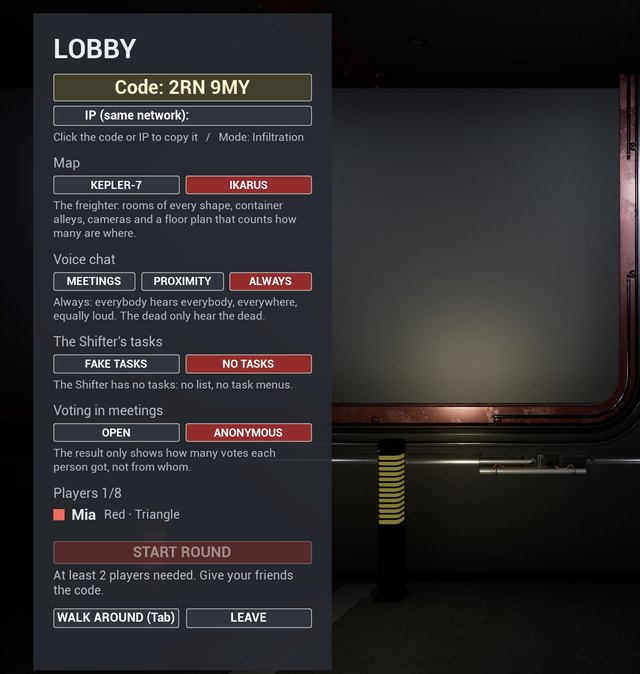
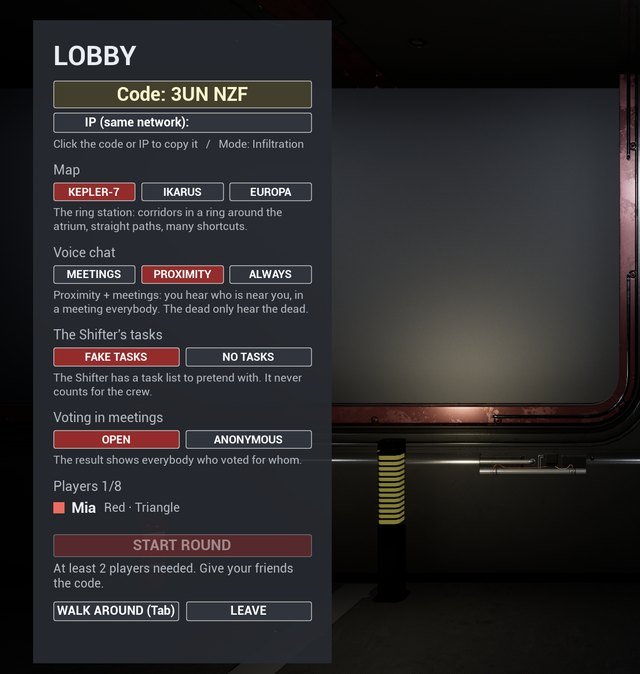
Website for v0.13.9: map Europa, ventilation shafts, three maps
- Maps: "Three maps", Europa as a screen of its own laid out like the Ikarus group (drill hall, cryo lab, ice gallery)
- New section on the shafts after the roles: an open floor hatch and the Shifter's look out of a hatch at floor level
- Meta description, hero text, nav menu and the lobby picture (now with three maps) brought up to date
- Ikarus bio lab picture re-rendered with the new furniture; the Kepler-7 corridor pictures look the same in v0.13.9
- Tools/WebsiteShots: Europa and vent tours (-HCTourMap=Europa, -HCVentOpen, -HCLanguage=en), a host-only
  lobby run, and make_images.py can write single pictures or groups

Pictures rendered from the packaged v0.13.9 game at 2560x1440.

Changed region(s): [[0.0312, 0.0, 0.5312, 0.9347], [0.0312, 0.9659, 0.375, 0.997], [0.4375, 0.9659, 0.5312, 0.997]]

diff --git a/Website/index.html b/Website/index.html
@@ -4,7 +4,7 @@
 <meta charset="utf-8">
 <meta name="viewport" content="width=device-width, initial-scale=1, viewport-fit=cover">
 <title>How Could It Be You: a social deduction horror game for 4 to 8 players</title>
-<meta name="description" content="Four to eight players on the station Kepler-7 or the freighter Ikarus, and one of them is the Shifter. Free for Windows and Linux, with online play through Epic Online Services.">
+<meta name="description" content="Four to eight players on the station Kepler-7, the freighter Ikarus or the drill station Europa, and one of them is the Shifter. Free for Windows and Linux, with online play through Epic Online Services.">
 <meta property="og:type" content="website">
 <meta property="og:title" content="How Could It Be You: a social deduction horror game">
 <meta property="og:description" content="Four to eight players on a research station. One of them wears a crewmate's face.">
@@ -53,11 +53,15 @@
 <!-- page CSS: only inside visuals, one --p-h per card group -->
 <style>
   .nav__logo img { width: 28px; height: 28px; border-radius: 7px; flex: none; }
-  #roles .panel { --p-h: auto; aspect-ratio: 16 / 9; min-height: 0; }
-  @media (max-width: 639px) { #roles .panel { aspect-ratio: 2 / 1; } }
+  :is(#roles, #vents) .panel { --p-h: auto; aspect-ratio: 16 / 9; min-height: 0; }
+  @media (max-width: 639px) { :is(#roles, #vents) .panel { aspect-ratio: 2 / 1; } }
+  /* a phone keeps the shafts on one screen: the second card tells, the first one shows */
+  @media (max-width: 639px) { #vents .card:nth-child(2) > .panel { display: none; } }
+  /* a phone gives Europa's three pictures two screens, as the maps section has */
+  @media (max-width: 639px) { #europa { --hm: 2; } }
   #maps .wide { --ratio: 41.875%; }
-  #maps .trio .frame { --ratio: 75%; }
-  @media (min-width: 640px) and (max-width: 1023px) { #maps .trio > .frame { grid-column: auto / span 4; } }
+  :is(#maps, #europa) .trio .frame { --ratio: 75%; }
+  @media (min-width: 640px) and (max-width: 1023px) { :is(#maps, #europa) .trio > .frame { grid-column: auto / span 4; } }
   #online .panel { --p-h: auto; aspect-ratio: 20 / 21; min-height: 0; }
   #online .shot-link > img { object-position: 0 0; }
   /* a screenshot that opens large: the link fills its panel or frame, the picture fills the link */
@@ -105,7 +109,8 @@
              site.css/site.js, asked for by the author: the hero lamp sputters on once, the trailer's play disc,
              screenshots open large out of their thumbnail, picture groups arrive once in view, the live
              release list fades in over the written one
-     pictures: rendered from the packaged game v0.13.2 at 2560x1440 (-HCTour and a bot round, English UI) -->
+     pictures: rendered from the packaged game v0.13.2 at 2560x1440 (-HCTour and a bot round, English UI); Europa,
+     the shafts, the Ikarus bio lab and the lobby from v0.13.9 (-HCTourMap=Europa, -HCVentOpen) -->
 
 <header class="nav nav--centre">
   <div class="wrap nav__bar">
@@ -122,10 +127,12 @@
               <p class="t-label">Maps</p>
               <a href="#maps">Kepler-7<span>Research station in orbit</span></a>
               <a href="#ikarus">Ikarus<span>Freighter with cameras</span></a>
+              <a href="#europa">Europa<span>Drill station under the ice</span></a>
             </div>
             <div class="menu-col span-3">
               <p class="t-label">A round</p>
               <a href="#roles">Roles<span>Crew against the Shifter</span></a>
+              <a href="#vents">Shafts<span>The Shifter's way under the floor</span></a>
               <a href="#online">Lobby<span>Join code and voice chat</span></a>
             </div>
           </div>
@@ -150,7 +157,7 @@
     <div class="wrap"><div class="hero-text">
       <div class="hero__text">
         <h1 id="hero-h">How Could It Be You, a horror game</h1>
-        <p class="hero__lead">Four to eight players on a research station in deep space. One of them is the Shifter, a thing that kills and wears its victims' faces.</p>
+        <p class="hero__lead">Four to eight players in deep space and under the ice of Europa. One of them is the Shifter, a thing that kills and wears its victims' faces.</p>
         <div class="btn-row"><a class="btn btn--primary" href="#download">Download the launcher<svg class="m-arrow" viewBox="0 0 12 12" aria-hidden="true"><path class="m-arrow__stem" d="M1 6h8"/><path class="m-arrow__head" d="M4.5 2.5 8 6l-3.5 3.5"/></svg></a><a class="btn btn--secondary" href="#trailer">Watch the trailer</a></div>
       </div>
     </div></div>
@@ -213,11 +220,32 @@
     </div>
   </section>
 
+  <!-- the ventilation shafts (since v0.13.9): img/do-vent.jpg and img/do-ventview.jpg, -HCTourMap=Europa -HCVentOpen -->
+  <section class="section" id="vents" aria-labelledby="vents-h">
+    <div class="wrap">
+      <div class="section-head">
+        <h2 id="vents-h">Shafts under every map. <span class="muted">Only the Shifter fits through them.</span></h2>
+      </div>
+      <div class="grid" data-reveal>
+        <article class="card card--open card--row span-6">
+          <h3>Crawl through the shafts as the Shifter</h3>
+          <p>Hold E next to a floor hatch to climb in. The number keys take you to the other hatches of the same shaft.</p>
+          <div class="panel"><a class="shot-link shot-link--fill" href="img/do-vent.jpg"><img class="frame__img" src="img/do-vent-800.jpg" srcset="img/do-vent-800.jpg 800w, img/do-vent.jpg 1600w" sizes="(max-width: 639px) 100vw, (max-width: 1023px) 60vw, 1100px" alt="A ventilation hatch in the floor of a dark room, its grille standing open" loading="lazy" width="1600" height="900" data-source="client" data-subject="do-vent"></a></div>
+        </article>
+        <article class="card card--open card--row span-6">
+          <h3>Watch the room from under the floor</h3>
+          <p>Inside, you look out at floor level. The crew sees the grille jump and hears it, and a meeting throws you out.</p>
+          <div class="panel"><a class="shot-link shot-link--fill" href="img/do-ventview.jpg"><img class="frame__img" src="img/do-ventview-800.jpg" srcset="img/do-ventview-800.jpg 800w, img/do-ventview.jpg 1600w" sizes="(max-width: 639px) 100vw, (max-width: 1023px) 60vw, 1100px" alt="The crew quarters seen from a hatch at floor level: three bunk beds under a ceiling lamp" loading="lazy" width="1600" height="900" data-source="client" data-subject="do-ventview"></a></div>
+        </article>
+      </div>
+    </div>
+  </section>
+
   <section class="section g2 ground-inverse" id="maps" aria-labelledby="maps-h">
     <div class="wrap">
       <div class="group">
         <div class="section-head">
-          <h2 id="maps-h">Two maps. <span class="muted">Kepler-7 is a research station in orbit: ten rooms joined by long corridors.</span></h2>
+          <h2 id="maps-h">Three maps. <span class="muted">Kepler-7 is a research station in orbit: ten rooms joined by long corridors.</span></h2>
         </div>
         <figure class="frame frame--photo wide" data-moment="liquid-hover" data-moment-opts='{"strength": 0.7}'>
           <img class="frame__img" src="img/kepler-corridor.jpg" srcset="img/kepler-corridor-1280.jpg 1280w, img/kepler-corridor.jpg 2560w" sizes="(max-width: 639px) calc(100vw - 48px), (max-width: 1023px) calc(100vw - 96px), 1280px" alt="A body in a pool of blood on the floor of a long, lit corridor on Kepler-7" loading="lazy" width="2560" height="1071" data-source="client" data-subject="Kepler-7 corridor">
@@ -230,9 +258,24 @@
         </div>
         <div class="grid trio" data-reveal>
           <div class="frame frame--photo span-4"><a class="shot-link shot-link--fill" href="img/ikarus-admin.jpg"><img class="frame__img" src="img/ikarus-admin-800.jpg" srcset="img/ikarus-admin-800.jpg 800w, img/ikarus-admin.jpg 1600w" sizes="(max-width: 639px) 150vw, (max-width: 1023px) 40vw, 1000px" alt="The admin table with a glowing blue floor plan of the ship" loading="lazy" width="1600" height="900" data-source="client" data-subject="ikarus-admin"></a></div>
-          <div class="frame frame--photo span-4"><a class="shot-link shot-link--fill" href="img/ikarus-biolab.jpg"><img class="frame__img" src="img/ikarus-biolab-800.jpg" srcset="img/ikarus-biolab-800.jpg 800w, img/ikarus-biolab.jpg 1600w" sizes="(max-width: 639px) 150vw, (max-width: 1023px) 40vw, 1000px" alt="The bio lab in green light, a round tank in the middle" loading="lazy" width="1600" height="900" data-source="client" data-subject="ikarus-biolab"></a></div>
+          <div class="frame frame--photo span-4"><a class="shot-link shot-link--fill" href="img/ikarus-biolab.jpg"><img class="frame__img" src="img/ikarus-biolab-800.jpg" srcset="img/ikarus-biolab-800.jpg 800w, img/ikarus-biolab.jpg 1600w" sizes="(max-width: 639px) 150vw, (max-width: 1023px) 40vw, 1000px" alt="The bio lab in green light: a round tank, a lab bench and plants under a grow lamp" loading="lazy" width="1600" height="900" data-source="client" data-subject="ikarus-biolab"></a></div>
           <div class="frame frame--photo span-4"><a class="shot-link shot-link--fill" href="img/ikarus-hangar.jpg"><img class="frame__img" src="img/ikarus-hangar-800.jpg" srcset="img/ikarus-hangar-800.jpg 800w, img/ikarus-hangar.jpg 1600w" sizes="(max-width: 639px) 150vw, (max-width: 1023px) 40vw, 1000px" alt="The hangar under orange warning lights" loading="lazy" width="1600" height="900" data-source="client" data-subject="ikarus-hangar"></a></div>
         </div>
+      </div>
+    </div>
+  </section>
+
+  <!-- the third map (since v0.13.9): img/europa-*.jpg, -HCTourMap=Europa; a screen of its own, laid out like the Ikarus group -->
+  <section class="section ground-inverse" id="europa" aria-labelledby="europa-h">
+    <div class="wrap">
+      <div class="section-head">
+        <h3 id="europa-h">Europa, a drill station under the ice</h3>
+        <p>Rooms stand around the drill shaft, the crew meets in the mess hall, and a long gallery runs along the ice. Colder and foggier than the rest.</p>
+      </div>
+      <div class="grid trio fill" data-reveal>
+        <div class="frame frame--photo span-4"><a class="shot-link shot-link--fill" href="img/europa-drillhall.jpg"><img class="frame__img" src="img/europa-drillhall-800.jpg" srcset="img/europa-drillhall-800.jpg 800w, img/europa-drillhall.jpg 1600w" sizes="(max-width: 639px) 150vw, (max-width: 1023px) 40vw, 1000px" alt="The drill hall: the block around the drill shaft glowing red, a barrier in front of it" loading="lazy" width="1600" height="900" data-source="client" data-subject="europa-drillhall"></a></div>
+        <div class="frame frame--photo span-4"><a class="shot-link shot-link--fill" href="img/europa-cryolab.jpg"><img class="frame__img" src="img/europa-cryolab-800.jpg" srcset="img/europa-cryolab-800.jpg 800w, img/europa-cryolab.jpg 1600w" sizes="(max-width: 639px) 150vw, (max-width: 1023px) 40vw, 1000px" alt="The cryo lab in cold light: three cryo pods along the wall and a lab bench" loading="lazy" width="1600" height="900" data-source="client" data-subject="europa-cryolab"></a></div>
+        <div class="frame frame--photo span-4"><a class="shot-link shot-link--fill" href="img/europa-gallery.jpg"><img class="frame__img" src="img/europa-gallery-800.jpg" srcset="img/europa-gallery-800.jpg 800w, img/europa-gallery.jpg 1600w" sizes="(max-width: 639px) 150vw, (max-width: 1023px) 40vw, 1000px" alt="The ice gallery, a long corridor in blue light with a chunk of ice on the floor" loading="lazy" width="1600" height="900" data-source="client" data-subject="europa-gallery"></a></div>
       </div>
     </div>
   </section>
@@ -251,7 +294,7 @@
         </ul>
       </div>
       <article class="card card--open span-6 start-7">
-        <div class="panel"><a class="shot-link shot-link--fill" href="img/online-lobby.jpg"><img class="frame__img" src="img/online-lobby-640.jpg" srcset="img/online-lobby-640.jpg 640w, img/online-lobby.jpg 1200w" sizes="(max-width: 639px) 190vw, (max-width: 1023px) calc(100vw - 96px), 628px" alt="The lobby: the join code, the choice of map, the voice chat mode, the Shifter's tasks and how votes are shown" loading="lazy" width="1200" height="1263" data-source="client" data-subject="the lobby"></a></div>
+        <div class="panel"><a class="shot-link shot-link--fill" href="img/online-lobby.jpg"><img class="frame__img" src="img/online-lobby-640.jpg" srcset="img/online-lobby-640.jpg 640w, img/online-lobby.jpg 1200w" sizes="(max-width: 639px) 190vw, (max-width: 1023px) calc(100vw - 96px), 628px" alt="The lobby: the join code, the choice of three maps, the voice chat mode, the Shifter's tasks and how votes are shown" loading="lazy" width="1200" height="1263" data-source="client" data-subject="the lobby"></a></div>
       </article>
     </div>
   </section>

diff --git a/Tools/WebsiteShots/make_images.py b/Tools/WebsiteShots/make_images.py
@@ -1,10 +1,18 @@
-"""Web images from the 2560x1440 renders. usage: python make_images.py <site img dir>"""
+"""Web images from the 2560x1440 renders.
+usage: python make_images.py <site img dir> [what ...]
+  what: all (the default), a group (round, kepler, ikarus, europa, lobby) or one picture by its name
+        (ikarus-biolab, do-vent ...), so a re-render replaces only the pictures that changed"""
 import os, sys, glob
 from PIL import Image, ImageFilter
 
 HERE = os.path.dirname(os.path.abspath(__file__))
 S = os.path.join(HERE, "shots")
 OUT = sys.argv[1]
+WHICH = set(sys.argv[2:]) or {"all"}
+
+
+def want(group, name):
+    return bool({"all", group, name} & WHICH)
 
 
 def fill_like(im, box, sample):
@@ -41,27 +49,48 @@ def scope(im, top):
     return im.crop((0, top, 2560, top + 1071))
 
 
-# the old files go
-for f in glob.glob(os.path.join(OUT, "*-640.jpg")) + glob.glob(os.path.join(OUT, "*-750.jpg")) + glob.glob(os.path.join(OUT, "*-840.jpg")):
-    if "launcher" not in os.path.basename(f):
-        os.remove(f)
-for f in ("do-button.jpg",):
-    p = os.path.join(OUT, f)
-    if os.path.exists(p):
-        os.remove(p)
+def lobby():
+    """the lobby panel (render_round.py lobby 150 lobby, else the round's host); the host's home-network address is filled"""
+    src = "lobby/Mia/host_00_Lobby.png"
+    if os.path.exists(os.path.join(S, src)):
+        im = open_(src)  # since v0.13.9 the IP line sits 13 px lower (digits on rows 300-316)
+        fill_like(im, (402, 295, 600, 325), (604, 297, 616, 323))
+    else:
+        im = open_("round/Mia/host_00_Lobby.png")
+        fill_like(im, (402, 282, 600, 312), (604, 284, 616, 310))
+    return im.crop((40, 80, 1240, 1343))
 
-save(hud_clean(open_("round/Lena/jumpscare_Lena_2.png")), "hero-shifter.jpg", [2560, 1280], q=84)
-save(scope(open_("kepler/tour_1.png"), 300), "kepler-corridor.jpg", [2560, 1280])
-save(scope(open_("kepler/tour_6.png"), 190), "trailer-poster.jpg", [1920])
-save(open_("kepler/tour_3.png"), "do-fusebox.jpg", [1600, 800])
-save(hud_clean(open_("round/Lena/jumpscare_Lena_1.png")), "do-face.jpg", [1600, 800])
-save(open_("kepler/tour_2.png"), "do-doors.jpg", [1600, 800])
-save(hud_clean(open_("round/Tom/meeting_results_Tom.png")).crop((400, 300, 2160, 1290)), "do-vote.jpg", [1600, 800])
-save(open_("ikarus/tour_1.png"), "ikarus-admin.jpg", [1600, 800])
-save(open_("ikarus/tour_2.png"), "ikarus-biolab.jpg", [1600, 800])
-save(open_("ikarus/tour_3.png"), "ikarus-hangar.jpg", [1600, 800])
 
-# the lobby panel; the host's home-network address is pixelated
-lobby = open_("round/Mia/host_00_Lobby.png")
-fill_like(lobby, (402, 282, 600, 312), (604, 284, 616, 310))
-save(lobby.crop((40, 80, 1240, 1343)), "online-lobby.jpg", [1200, 640], q=86)
+# (group, file, how it is made, widths, quality)
+PICTURES = [
+    ("round", "hero-shifter.jpg", lambda: hud_clean(open_("round/Lena/jumpscare_Lena_2.png")), [2560, 1280], 84),
+    ("kepler", "kepler-corridor.jpg", lambda: scope(open_("kepler/tour_1.png"), 300), [2560, 1280], 82),
+    ("kepler", "trailer-poster.jpg", lambda: scope(open_("kepler/tour_6.png"), 190), [1920], 82),
+    ("kepler", "do-fusebox.jpg", lambda: open_("kepler/tour_3.png"), [1600, 800], 82),
+    ("round", "do-face.jpg", lambda: hud_clean(open_("round/Lena/jumpscare_Lena_1.png")), [1600, 800], 82),
+    ("kepler", "do-doors.jpg", lambda: open_("kepler/tour_2.png"), [1600, 800], 82),
+    ("round", "do-vote.jpg", lambda: hud_clean(open_("round/Tom/meeting_results_Tom.png")).crop((400, 300, 2160, 1290)), [1600, 800], 82),
+    ("ikarus", "ikarus-admin.jpg", lambda: open_("ikarus/tour_1.png"), [1600, 800], 82),
+    ("ikarus", "ikarus-biolab.jpg", lambda: open_("ikarus/tour_2.png"), [1600, 800], 82),
+    ("ikarus", "ikarus-hangar.jpg", lambda: open_("ikarus/tour_3.png"), [1600, 800], 82),
+    ("europa", "europa-drillhall.jpg", lambda: open_("europa/tour_3.png"), [1600, 800], 82),
+    ("europa", "europa-cryolab.jpg", lambda: open_("europa/tour_2.png"), [1600, 800], 82),
+    ("europa", "europa-gallery.jpg", lambda: open_("europa/tour_5.png"), [1600, 800], 82),
+    ("europa", "do-vent.jpg", lambda: open_("europa_vent/tour_1.png"), [1600, 800], 82),
+    ("europa", "do-ventview.jpg", lambda: open_("europa_vent/tour_2.png"), [1600, 800], 82),
+    ("lobby", "online-lobby.jpg", lobby, [1200, 640], 86),
+]
+
+# the old files go (only when everything is written again)
+if "all" in WHICH:
+    for f in glob.glob(os.path.join(OUT, "*-640.jpg")) + glob.glob(os.path.join(OUT, "*-750.jpg")) + glob.glob(os.path.join(OUT, "*-840.jpg")):
+        if "launcher" not in os.path.basename(f):
+            os.remove(f)
+    for f in ("do-button.jpg",):
+        p = os.path.join(OUT, f)
+        if os.path.exists(p):
+            os.remove(p)
+
+for group, name, make, widths, q in PICTURES:
+    if want(group, name) or want(group, name[:-4]):
+        save(make(), name, widths, q=q)

diff --git a/Tools/WebsiteShots/render_tours.py b/Tools/WebsiteShots/render_tours.py
@@ -1,5 +1,5 @@
 """Stills for the website: one -HCTour run per map, 2560x1440, epic quality, offscreen.
-usage: python render_tours.py [kepler|ikarus|all]"""
+usage: python render_tours.py [kepler|ikarus|europa|vent|all]"""
 import glob, os, shutil, subprocess, sys, time
 
 HERE = os.path.dirname(os.path.abspath(__file__))
@@ -11,12 +11,12 @@ def fmt(v):
     return ("%.3f" % v).rstrip("0").rstrip(".")
 
 
-def run(name, stops, tour_map=None, blood=(), slime=(), quality=4, timeout=900):
+def run(name, stops, tour_map=None, blood=(), slime=(), extra=(), quality=4, timeout=900):
     out = os.path.join(HERE, "shots", name)
     shutil.rmtree(out, ignore_errors=True)
     os.makedirs(out)
     args = [GAME, "-HCTour=" + ";".join(",".join(fmt(c) for c in s) for s in stops), "-HCShotDir=" + out,
-            "-ResX=%d" % RES[0], "-ResY=%d" % RES[1], "-nosound", "-unattended", "-RenderOffscreen",
+            "-ResX=%d" % RES[0], "-ResY=%d" % RES[1], "-nosound", "-unattended", "-RenderOffscreen", "-HCLanguage=en",
             "-ExecCmds=r.SetRes %dx%dw, r.ScreenPercentage 100, scalability %d" % (RES[0], RES[1], quality)]
     if tour_map:
         args.append("-HCTourMap=" + tour_map)
@@ -24,6 +24,7 @@ def run(name, stops, tour_map=None, blood=(), slime=(), quality=4, timeout=900):
         args.append("-HCTourBlood=" + ";".join(",".join(fmt(c) for c in b) for b in blood))
     if slime:
         args.append("-HCTourSlime=" + ";".join(",".join(fmt(c) for c in s) for s in slime))
+    args.extend(extra)
     t0 = time.time()
     p = subprocess.Popen(args)
     try:
@@ -61,6 +62,20 @@ IKARUS = [
     (44, 56, 230, 200, -4),              # 7 cargo hold
     (72.5, 43, 170, -90, 0),             # 8 medbay
 ]
+# since v0.13.9: the drill station under the ice
+EUROPA = [
+    (9, 10.5, 170, -35, -5),             # 1 quarters
+    (71.5, 26, 170, -150, -5),           # 2 cryo lab
+    (41.5, 16.5, 200, 55, 4),            # 3 drill hall
+    (7.5, 46, 200, -30, -3),             # 4 vehicle hall
+    (5, 49.5, 170, 0, -2),               # 5 ice gallery
+    (36.5, 3, 230, 25, -12),             # 6 mess hall (meeting room)
+]
+# a ventilation hatch on Europa with its grille open (-HCVentOpen opens every grille, so it gets a run of its own)
+EUROPA_VENT = [
+    (11.6, 22.6, 120, -42, -30),         # 1 hatch in the security room
+    (20.6, 8.6, 30, -115, 3),            # 2 the Shifter's look out of the quarters hatch, at floor level
+]
 
 if __name__ == "__main__":
     which = sys.argv[1] if len(sys.argv) > 1 else "all"
@@ -68,3 +83,7 @@ if __name__ == "__main__":
         run("kepler", KEPLER, blood=[(23.0, 19.2)], slime=KEPLER_SLIME)
     if which in ("ikarus", "all"):
         run("ikarus", IKARUS, tour_map="Ikarus")
+    if which in ("europa", "all"):
+        run("europa", EUROPA, tour_map="Europa")
+    if which in ("vent", "all"):
+        run("europa_vent", EUROPA_VENT, tour_map="Europa", extra=["-HCVentOpen"])

diff --git a/Tools/WebsiteShots/render_round.py b/Tools/WebsiteShots/render_round.py
@@ -3,13 +3,15 @@
   Lena = the only crew bot doing tasks, so she is the victim: her jumpscare pictures
   Tom  = reports the remains and votes for Mia: the meeting and voting screens
   Ben  = small window, reports and votes
-usage: python render_round.py <out name> [seconds]"""
+usage: python render_round.py <out name> [seconds] [lobby]
+  lobby: only the host, until its lobby picture is taken (Mia/host_00_Lobby.png, for online-lobby.jpg)"""
 import glob, os, shutil, subprocess, sys, time
 
 HERE = os.path.dirname(os.path.abspath(__file__))
 GAME = os.path.join(HERE, "Game", "HowCouldItBeYou.exe")
 out = os.path.join(HERE, "shots", sys.argv[1] if len(sys.argv) > 1 else "round")
 limit = float(sys.argv[2]) if len(sys.argv) > 2 else 420
+lobby_only = "lobby" in sys.argv[3:]
 shutil.rmtree(out, ignore_errors=True)
 os.makedirs(out)
 code = os.path.join(out, "code.txt")
@@ -28,13 +30,19 @@ t0 = time.time()
 try:
     d = os.path.join(out, "Mia"); os.makedirs(d)
     procs.append(subprocess.Popen([GAME] + base + full + host + ["-HCShotDir=" + d]))
-    time.sleep(10)
-    for n, extra in bots:
-        d = os.path.join(out, n); os.makedirs(d)
-        procs.append(subprocess.Popen([GAME] + base + extra + ["-HCName=" + n, "-HCAutoJoinCodeFile=" + code, "-HCShotDir=" + d]))
+    if lobby_only:
+        # the lobby picture is taken 1.5 s into the lobby; give the file a moment to be written
+        while time.time() - t0 < limit and procs[0].poll() is None and not glob.glob(os.path.join(d, "host_*_Lobby.png")):
+            time.sleep(1)
         time.sleep(3)
-    while time.time() - t0 < limit and any(p.poll() is None for p in procs):
-        time.sleep(3)
+    else:
+        time.sleep(10)
+        for n, extra in bots:
+            d = os.path.join(out, n); os.makedirs(d)
+            procs.append(subprocess.Popen([GAME] + base + extra + ["-HCName=" + n, "-HCAutoJoinCodeFile=" + code, "-HCShotDir=" + d]))
+            time.sleep(3)
+        while time.time() - t0 < limit and any(p.poll() is None for p in procs):
+            time.sleep(3)
 finally:
     for p in procs:
         subprocess.run(["taskkill", "/PID", str(p.pid), "/T", "/F"], capture_output=True)

diff --git a/Website/README.md b/Website/README.md
@@ -1,6 +1,6 @@
 # Website
 
-Statische Seite für How Could It Be You (Englisch): Trailer, Rollen, beide Karten, Online-Spiel, Launcher-Download, Änderungen, Fragen. Kein Build-Schritt: `index.html` plus die Ordner `assets/`, `img/` und `media/` liegen so, wie sie ausgeliefert werden.
+Statische Seite für How Could It Be You (Englisch): Trailer, Rollen, Lüftungsschächte, alle drei Karten, Online-Spiel, Launcher-Download, Änderungen, Fragen. Kein Build-Schritt: `index.html` plus die Ordner `assets/`, `img/` und `media/` liegen so, wie sie ausgeliefert werden.
 
 ## Ansehen
 
@@ -25,9 +25,12 @@ Alles stammt aus dem Spiel selbst:
 
 | Datei | Herkunft |
 |---|---|
-| `img/hero-shifter.jpg`, `img/do-face.jpg`, `img/do-vote.jpg`, `img/online-lobby.jpg` | Bot-Runde mit v0.13.2, englische Oberfläche, 2560×1440 (FPS-Anzeige und Hinweis übermalt, lokale IP entfernt) |
-| `img/kepler-corridor.jpg`, `img/do-fusebox.jpg`, `img/do-doors.jpg`, `img/trailer-poster.jpg` | `-HCTour` auf Kepler-7, 2560×1440, Qualität Episch |
-| `img/ikarus-*.jpg` | `-HCTour -HCTourMap=Ikarus`, 2560×1440 |
+| `img/hero-shifter.jpg`, `img/do-face.jpg`, `img/do-vote.jpg` | Bot-Runde mit v0.13.2, englische Oberfläche, 2560×1440 (FPS-Anzeige und Hinweis übermalt) |
+| `img/online-lobby.jpg` | Lobby des Hosts mit v0.13.9 (`render_round.py lobby 150 lobby`), englische Oberfläche, lokale IP entfernt |
+| `img/kepler-corridor.jpg`, `img/do-fusebox.jpg`, `img/do-doors.jpg`, `img/trailer-poster.jpg` | `-HCTour` auf Kepler-7 mit v0.13.2, 2560×1440, Qualität Episch (die Gänge sehen in v0.13.9 gleich aus) |
+| `img/ikarus-*.jpg` | `-HCTour -HCTourMap=Ikarus`, 2560×1440; das Bio-Labor mit den neuen Möbeln aus v0.13.9 |
+| `img/europa-*.jpg` | `-HCTour -HCTourMap=Europa` mit v0.13.9, 2560×1440 |
+| `img/do-vent.jpg`, `img/do-ventview.jpg` | `-HCTour -HCTourMap=Europa -HCVentOpen` mit v0.13.9: eine Bodenluke mit offenem Gitter, der Blick aus einer Luke auf Bodenhöhe |
 | `img/launcher-*.jpg` | Launcher 0.5.0, `--selftest-screenshot` |
 | `media/trailer.mp4`, `media/trailer-de.mp4` | Trailer ohne schwarze Balken (2,39:1), H.264, je etwa 13 MB |
 
